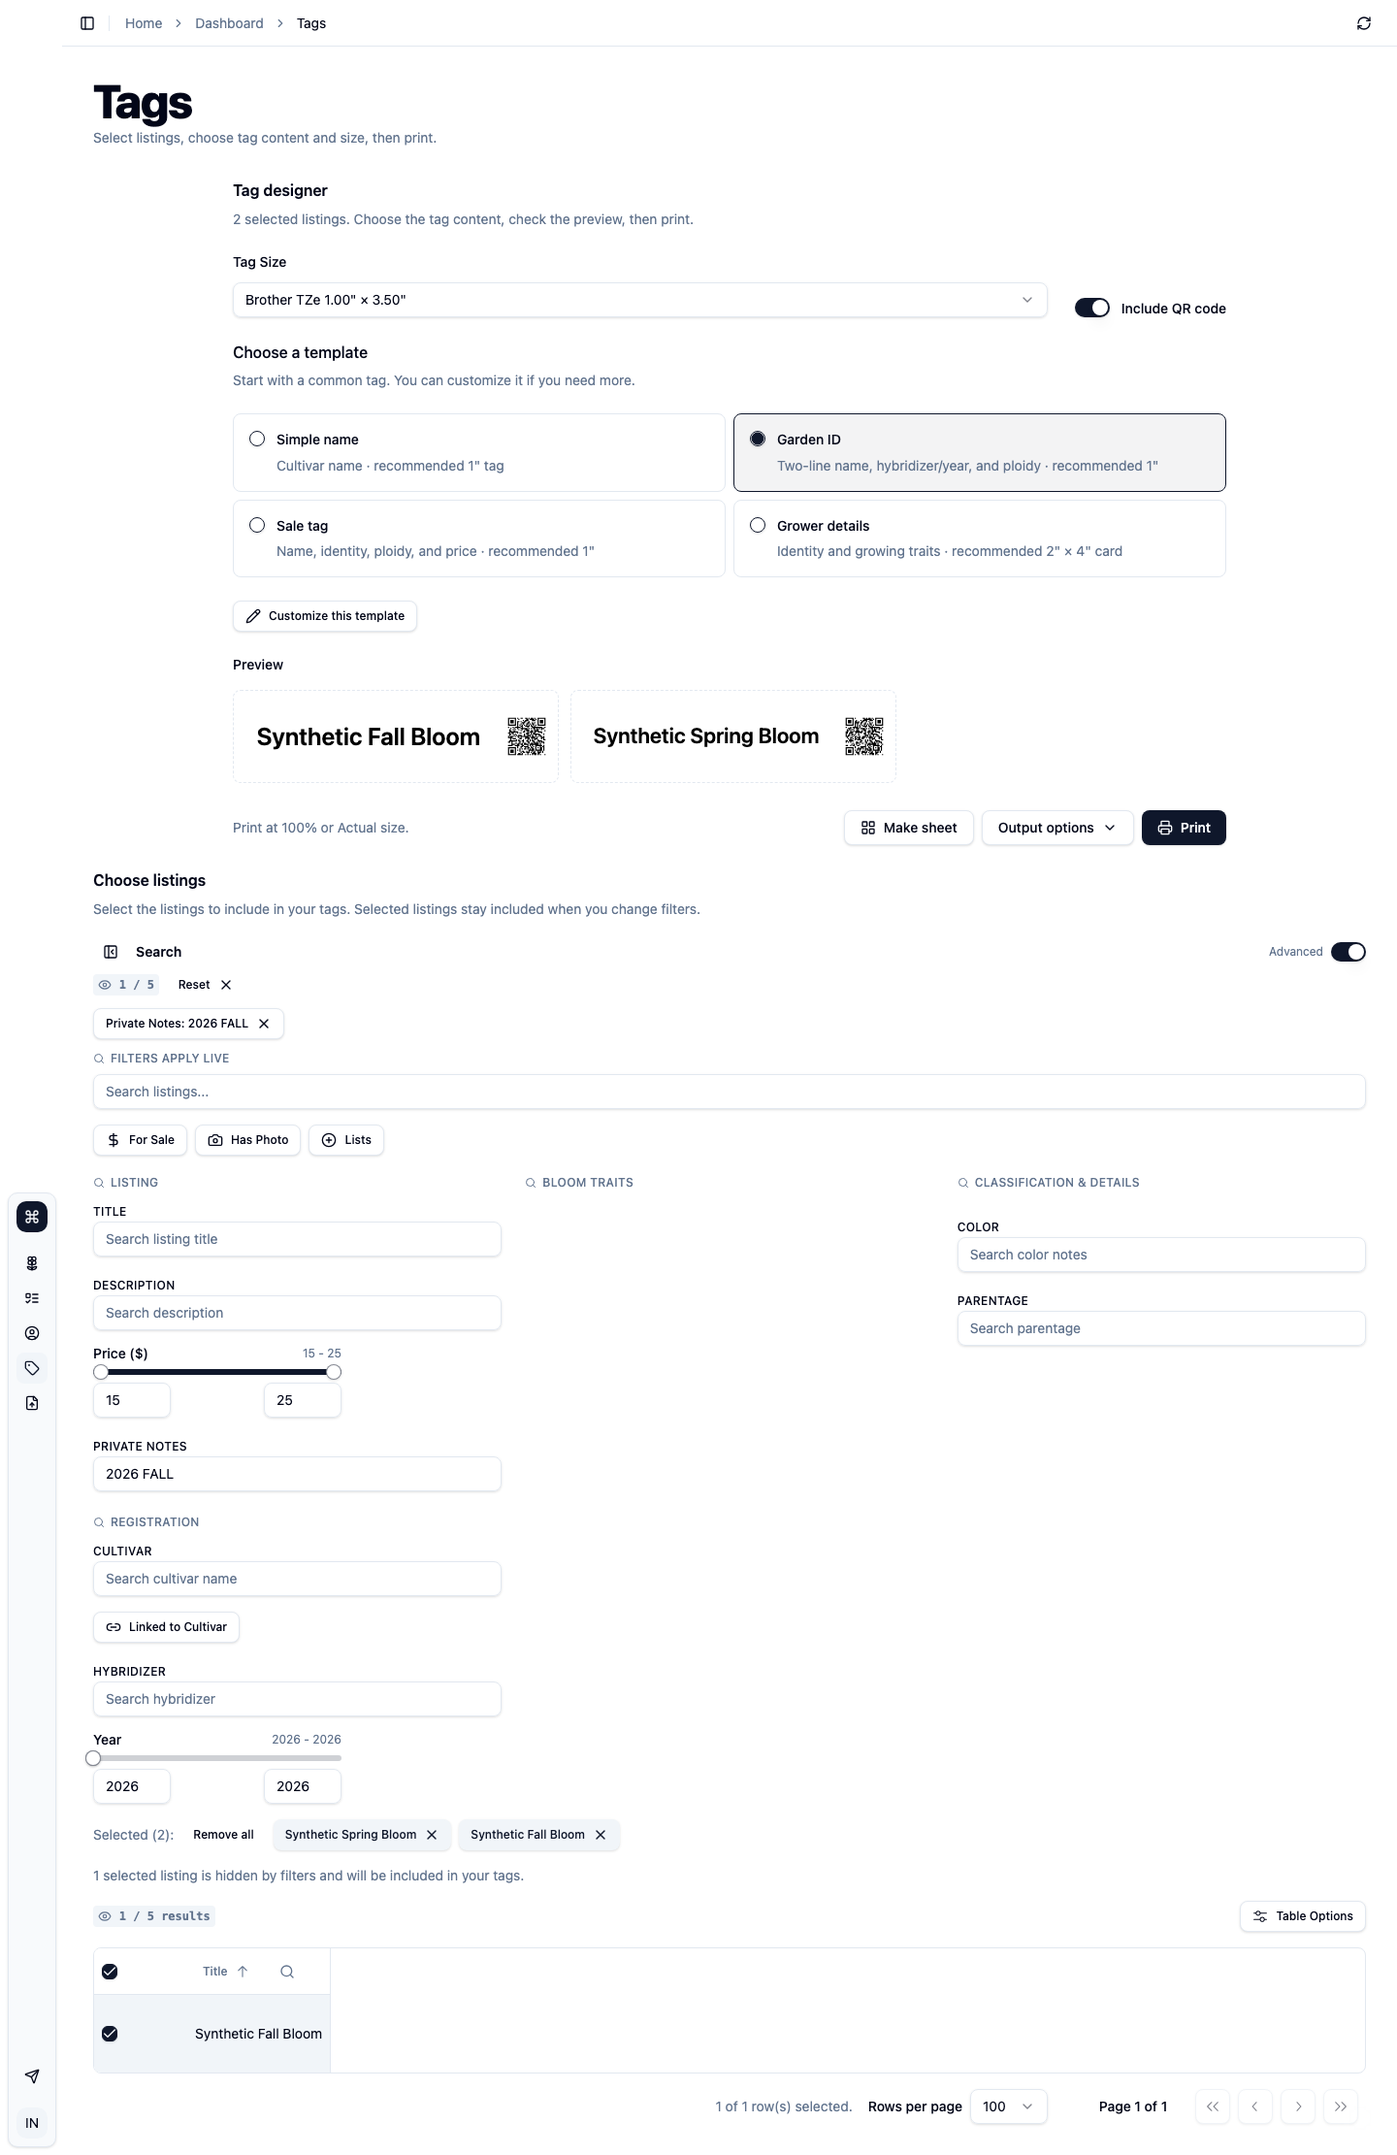
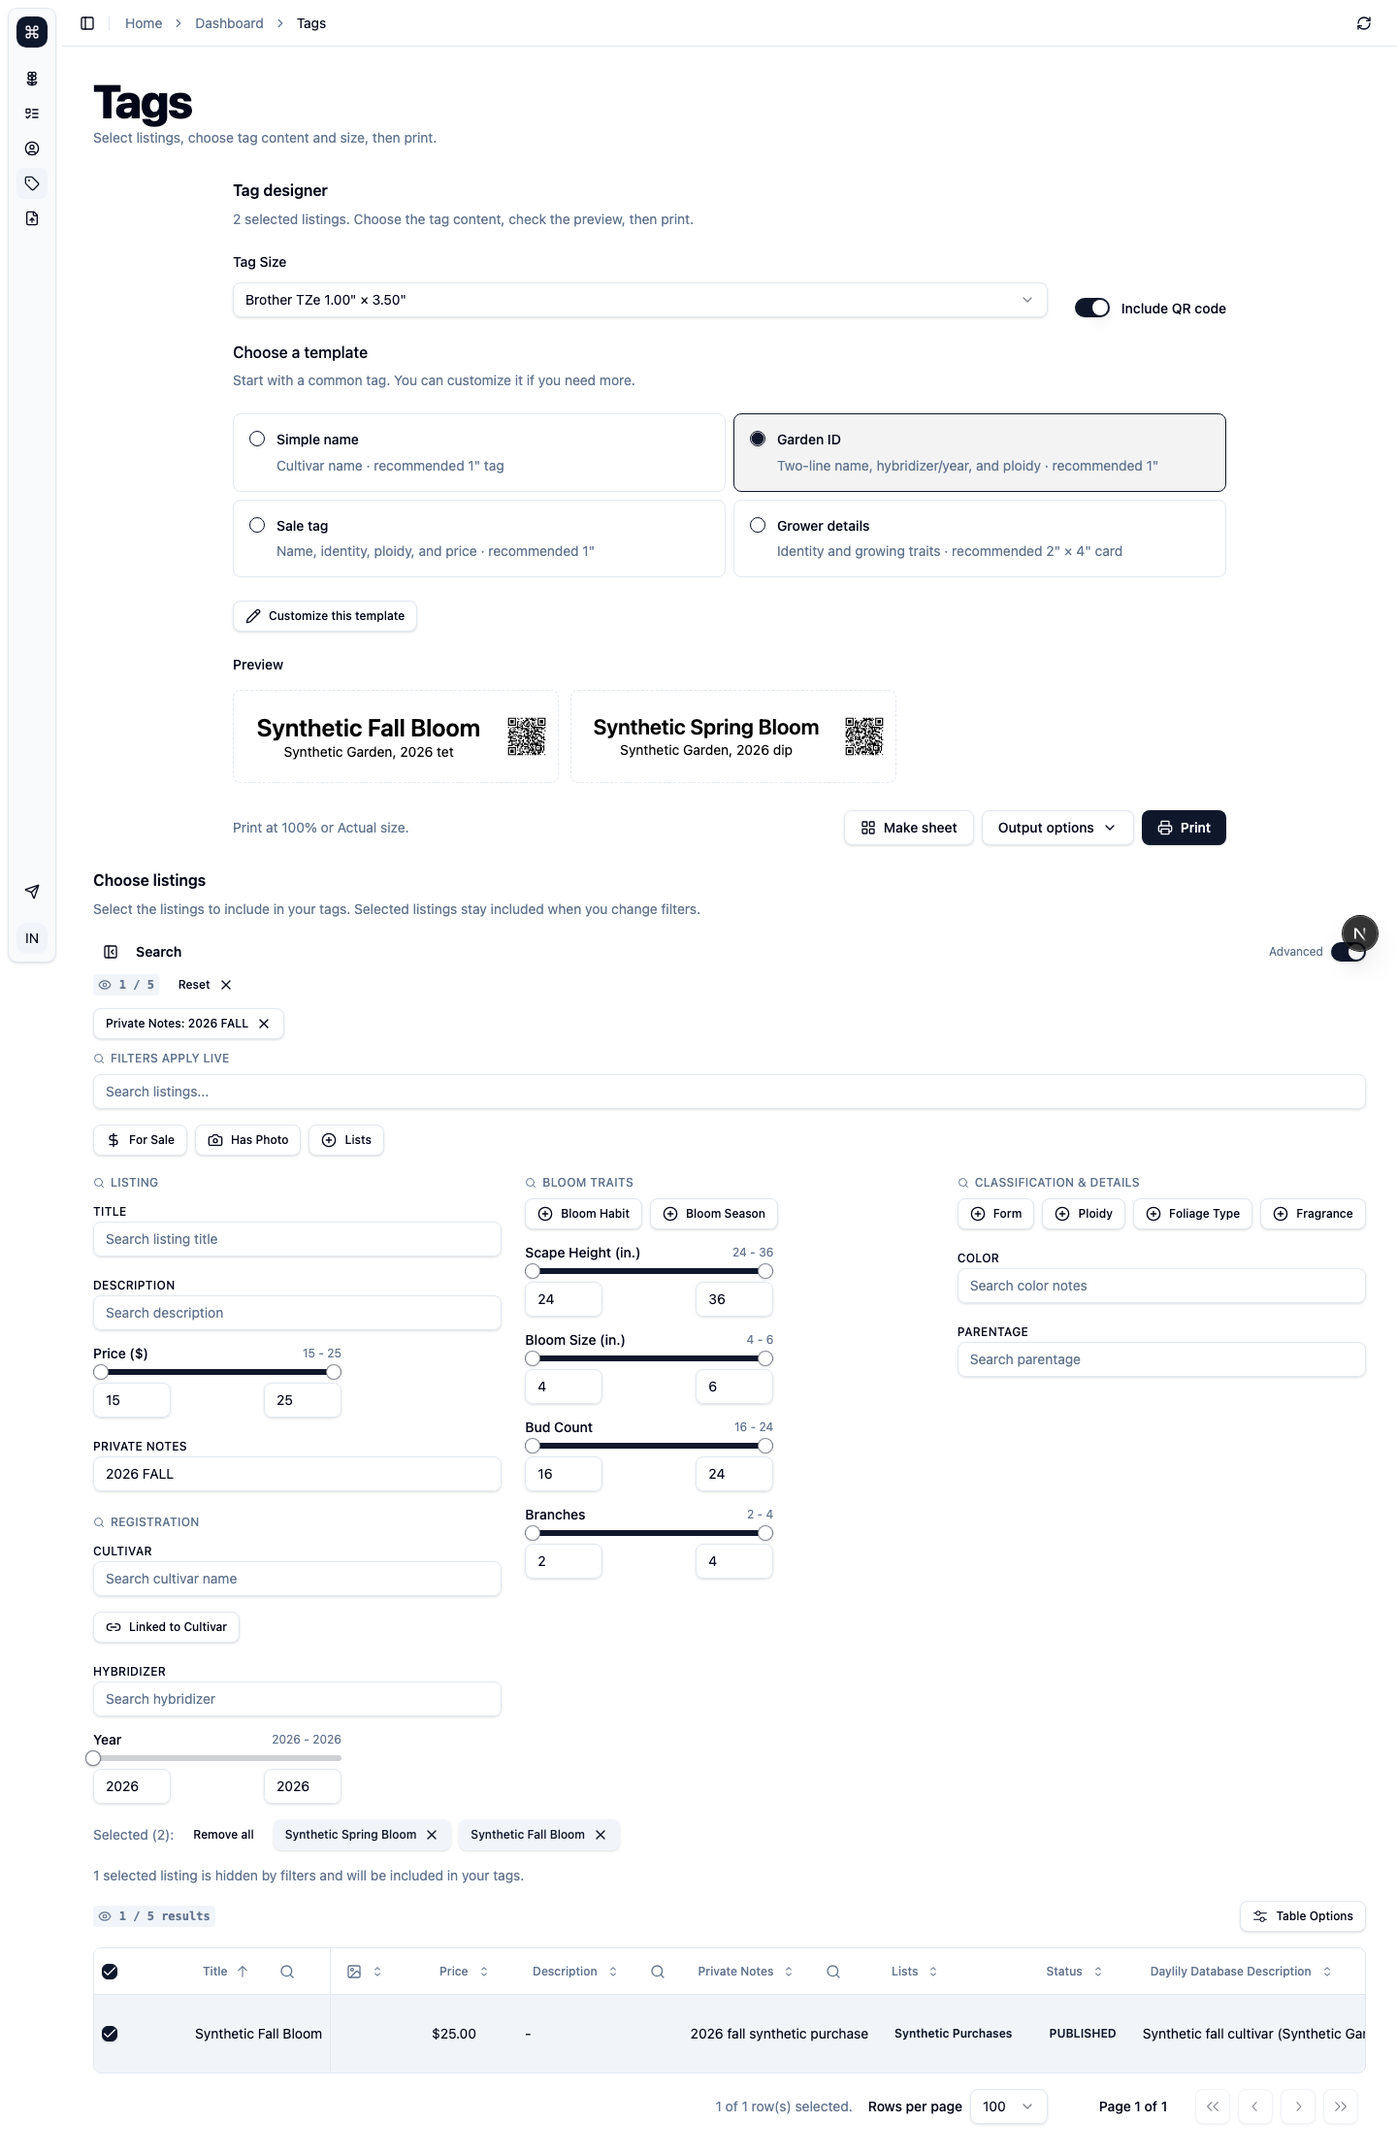
Verify populated Tags facets against reference search pages

diff --git a/apps/main/tests/integration/tags-search.integration.ts b/apps/main/tests/integration/tags-search.integration.ts
@@ -1,10 +1,16 @@
 import fs from "node:fs/promises";
+import { execFile } from "node:child_process";
+import { promisify } from "node:util";
 import path from "node:path";
 import { PrismaLibSql } from "@prisma/adapter-libsql";
 import { PrismaClient } from "@prisma/client";
 import type { Page } from "@playwright/test";
 import { expect, test } from "./fixtures";
 
+const compareCultivars = process.env.TAGS_COMPARE_CULTIVAR_SEARCH === "1";
+const candidatePath = path.resolve(
+  ".tmp/search/public-search-candidate.sqlite",
+);
 const purchaseNote = "2026 fall synthetic purchase";
 const db = new PrismaClient({
   adapter: new PrismaLibSql(
@@ -17,10 +23,64 @@ test.beforeAll(async () => {
   await db.user.create({
     data: { id: "tags-other-owner", clerkUserId: "tags-other-clerk" },
   });
+  // Exercise the actual V2 cultivar read model, not rows with empty traits.
+  for (const [season, traits] of [
+    [
+      "fall",
+      {
+        bloom_season_names: "Midseason",
+        bloom_habit_names: "Diurnal",
+        foliage_names: "Dormant",
+        ploidy_names: "Tetraploid",
+        fragrance_names: "Fragrant",
+        flower_form_names: "Single",
+        scape_height_in: 36,
+        bloom_size_in: 6,
+        bud_count: 24,
+        branches: 4,
+      },
+    ],
+    [
+      "spring",
+      {
+        bloom_season_names: "Early",
+        bloom_habit_names: "Nocturnal",
+        foliage_names: "Evergreen",
+        ploidy_names: "Diploid",
+        fragrance_names: "Very Fragrant",
+        flower_form_names: "Double",
+        scape_height_in: 24,
+        bloom_size_in: 4,
+        bud_count: 16,
+        branches: 2,
+      },
+    ],
+  ] as const) {
+    await db.v2AhsCultivar.create({
+      data: {
+        id: `tags-cultivar-${season}`,
+        post_title: `Synthetic ${season} cultivar`,
+        link_normalized_name: `synthetic ${season} cultivar`,
+        introduction_date: "2026",
+        primary_hybridizer_name: "Synthetic Garden",
+        color: "Rose and gold",
+        parentage: "Synthetic A x Synthetic B",
+        ...traits,
+      },
+    });
+    await db.cultivarReference.create({
+      data: {
+        id: `tags-reference-${season}`,
+        v2AhsCultivarId: `tags-cultivar-${season}`,
+        normalizedName: `synthetic ${season} cultivar`,
+      },
+    });
+  }
   await db.listing.createMany({
     data: [
       {
         id: "tags-fall",
+        cultivarReferenceId: "tags-reference-fall",
         userId: "integration-user",
         title: "Synthetic Fall Bloom",
         slug: "synthetic-fall-bloom",
@@ -30,6 +90,7 @@ test.beforeAll(async () => {
       },
       {
         id: "tags-spring",
+        cultivarReferenceId: "tags-reference-spring",
         userId: "integration-user",
         title: "Synthetic Spring Bloom",
         slug: "synthetic-spring-bloom",
@@ -54,6 +115,17 @@ test.beforeAll(async () => {
       },
     ],
   });
+  if (compareCultivars) {
+    // The optional four-page evidence run enables the existing runtime flag.
+    // Build only from this disposable synthetic database in our own checkout.
+    await promisify(execFile)(process.execPath, [
+      "scripts/build-public-search-index.mjs",
+      "--source",
+      process.env.DATABASE_URL!,
+      "--target",
+      candidatePath,
+    ]);
+  }
   await db.list.create({
     data: {
       id: "tags-list",
@@ -66,20 +138,72 @@ test.beforeAll(async () => {
 test.afterAll(async () => {
   await db.list.deleteMany({ where: { id: "tags-list" } });
   await db.listing.deleteMany({ where: { id: { startsWith: "tags-" } } });
+  await db.cultivarReference.deleteMany({
+    where: { id: { startsWith: "tags-reference-" } },
+  });
+  await db.v2AhsCultivar.deleteMany({
+    where: { id: { startsWith: "tags-cultivar-" } },
+  });
   await db.user.delete({ where: { id: "tags-other-owner" } });
   await db.$disconnect();
+  if (compareCultivars) {
+    for (const suffix of ["", ".next", ".previous"])
+      await fs.rm(candidatePath + suffix, { force: true });
+  }
 });
 
 async function capture(page: Page, name: string) {
   const directory = process.env.TAGS_EVIDENCE_DIR;
   if (!directory) return;
   await fs.mkdir(directory, { recursive: true });
+  await page.evaluate(() => window.scrollTo(0, 0));
   await page.mouse.move(0, 0);
   await page.screenshot({
     path: path.join(directory, `${name}.png`),
     fullPage: true,
     animations: "disabled",
   });
+  if (name.endsWith("-private-note")) {
+    await page
+      .getByRole("region", { name: "Choose listings", exact: true })
+      .screenshot({
+        path: path.join(directory, `${name}-filters.png`),
+        animations: "disabled",
+      });
+  }
+}
+
+const traitControlIds = [
+  "bloom-habit",
+  "bloom-season",
+  "scape-height",
+  "bloom-size",
+  "budcount",
+  "branches",
+  "form",
+  "ploidy",
+  "foliage-type",
+  "fragrance",
+] as const;
+
+async function expectTraitControls(page: Page, accordion: boolean) {
+  // Phone/iPad use the same responsive section accordions as Listings.
+  if (accordion) {
+    for (const name of ["Bloom Traits", "Classification & Details"]) {
+      const section = page.getByRole("button", { name, exact: true });
+      if (
+        (await section.isVisible()) &&
+        (await section.getAttribute("aria-expanded")) === "false"
+      )
+        await section.click();
+    }
+  }
+  for (const id of traitControlIds) {
+    await expect(
+      page.locator(`[data-testid="advanced-filter-${id}"]:visible`),
+      id,
+    ).toBeVisible();
+  }
 }
 
 for (const [device, viewport, touch] of [
@@ -121,6 +245,42 @@ for (const [device, viewport, touch] of [
         '[data-testid="advanced-filter-private-note"]:visible',
       );
       await expect(note).toBeVisible();
+      await expectTraitControls(page, touch);
+      // Facet availability, result counts, and selection must agree.
+      const habit = page.locator(
+        '[data-testid="advanced-filter-bloom-habit"]:visible',
+      );
+      await habit.getByRole("button").click();
+      const diurnal = page.getByRole("option", {
+        name: "Diurnal",
+        exact: true,
+      });
+      await expect(diurnal).toBeVisible();
+      await expect(page.getByRole("option")).toHaveCount(2);
+      await expect(
+        page.getByRole("option", { name: "Nocturnal", exact: true }),
+      ).toBeVisible();
+      await diurnal.click();
+      await page.keyboard.press("Escape");
+      await expect(page.getByTestId("search-results-count")).toContainText(
+        "1 /",
+      );
+      await expect(page.getByText("1 selected listing.")).toBeVisible();
+      await habit.getByRole("button").click();
+      await page.getByRole("option", { name: "Diurnal", exact: true }).click();
+      await page.keyboard.press("Escape");
+      const heightMin = page.locator(
+        '[data-testid="advanced-filter-scape-height-input-min"]:visible',
+      );
+      await heightMin.fill("30");
+      await heightMin.press("Enter");
+      await expect(page.getByTestId("search-results-count")).toContainText(
+        "1 /",
+      );
+      await expect(spring).toBeHidden();
+      await expect(page.getByText("1 selected listing.")).toBeVisible();
+      await heightMin.fill("24");
+      await heightMin.press("Enter");
       await note.fill("2026 FALL");
       await expect(page.getByTestId("search-results-count")).toContainText(
         "1 /",
@@ -138,6 +298,7 @@ for (const [device, viewport, touch] of [
         .getByRole("checkbox", { name: "Select all", exact: true })
         .click();
       await expect(page.getByText("2 selected listings.")).toBeVisible();
+      await expectTraitControls(page, touch);
       await capture(page, `${device}-private-note`);
       await expect(
         page.getByRole("main").locator('[data-slot="card"]'),
@@ -298,4 +459,65 @@ test("Tags shows dashboard loading and a recoverable load error", async ({
   await page.unroute("**/api/trpc/**");
   await page.reload();
   await expect(page.getByTestId("search-all-fields-input")).toBeVisible();
+});
+
+test("Tags renders the same populated cultivar controls as reference search pages", async ({
+  page,
+}) => {
+  test.setTimeout(120_000);
+  await page.setViewportSize({ width: 1440, height: 1000 });
+  for (const [name, route] of [
+    ["tags", "/dashboard/tags"],
+    ["listings", "/dashboard/listings"],
+    ["member", "/integration-seller/search?mode=advanced"],
+    ...(compareCultivars
+      ? [["cultivars", "/cultivars?advanced=true"] as const]
+      : []),
+  ] as const) {
+    await page.goto(route);
+    if (name === "tags" || name === "listings") {
+      const mode = page.getByTestId("search-mode-switch");
+      await expect(mode).toBeVisible();
+      if ((await mode.getAttribute("data-state")) !== "checked")
+        await mode.click();
+    }
+    if (name === "member") {
+      for (const label of ["Bloom Traits", "Classification & Details"])
+        await page.getByRole("button", { name: label, exact: true }).click();
+    }
+    await expectTraitControls(page, false);
+    // Each reference uses the same range/facet primitives. Tags adds only the
+    // owner's Private Notes text field to the Listings filter definitions.
+    await expect(
+      page.locator(
+        '[data-testid="advanced-filter-scape-height-input-min"]:visible',
+      ),
+    ).toBeVisible();
+    await expect(
+      page
+        .locator('[data-testid="advanced-filter-ploidy"]:visible')
+        .getByRole("button"),
+    ).toBeVisible();
+    if (name === "tags" || name === "listings") {
+      await expect(
+        page.locator(
+          '[data-testid="advanced-filter-scape-height-input-min"]:visible',
+        ),
+      ).toHaveValue("24");
+      await expect(
+        page.locator(
+          '[data-testid="advanced-filter-scape-height-input-max"]:visible',
+        ),
+      ).toHaveValue("36");
+    }
+    if (name === "member" || name === "cultivars") {
+      await expect(
+        page.getByTestId("advanced-filter-private-note"),
+      ).toHaveCount(0);
+      await expect(page.getByText(purchaseNote, { exact: true })).toHaveCount(
+        0,
+      );
+    }
+    await capture(page, `reference-${name}-desktop`);
+  }
 });

diff --git a/apps/main/docs/tags-search-verification.md b/apps/main/docs/tags-search-verification.md
@@ -28,7 +28,8 @@ No member database, printer, or outbound email service was used.
 | Desktop | [Before](evidence/tags-search/desktop-before.png) | [After](evidence/tags-search/desktop-after.png) |
 | Phone   | [Before](evidence/tags-search/mobile-before.png)  | [After](evidence/tags-search/mobile-after.png)  |
 
-The after captures show two selected listings. The `2026 FALL` filter displays
+The before captures restore the Tags component from base `e31a2cc3` and use
+these same populated synthetic cultivar fixtures. The after captures show two selected listings. The `2026 FALL` filter displays
 one matching listing. Both selected listings remain in preview and exports.
 
 Run the focused browser flow from the repository root:
@@ -46,14 +47,54 @@ private text remaining local, and CSV/HTML/PDF/ZIP downloads. Another flow check
 loading, load failure, and recovery after refresh. Unit coverage checks loading
 versus an empty account and URL synchronization opt-out.
 
+## Screenshot review correction
+
+The first desktop evidence had an empty **Bloom Traits** column and no
+classification facets. Its fixtures had no bloom habit, season, size, height,
+bud count, branches, form, ploidy, foliage, or fragrance. Shared Listings/member
+controls omit options and ranges when the user's data has no values. That
+capture did not demonstrate the requested controls, and the initial tests did
+not catch the omission.
+
+The replacement fixtures link two listings to synthetic V2 cultivar records
+with all ten fields. They exercise the actual owner-scoped read model. The
+browser tests now require each rendered control on desktop, phone, and iPad,
+check both bloom-habit options, then select a facet and change a numeric range.
+They assert result counts and retained hidden selections. A private-note
+filter must leave all trait controls available. No further product source
+change was needed after the populated-data comparison.
+
+[Desktop filters](evidence/tags-search/desktop-filters.png) ·
+[Phone filters](evidence/tags-search/mobile-filters.png) ·
+[iPad filters](evidence/tags-search/ipad-filters.png) ·
+[iPad full page](evidence/tags-search/ipad-after.png)
+
+![Corrected desktop Tags filters](evidence/tags-search/desktop-filters.png)
+
+The browser comparison checks the same ten shared controls on
+[Tags](evidence/tags-search/reference-tags-desktop.png),
+[Listings](evidence/tags-search/reference-listings-desktop.png), and
+[member search](evidence/tags-search/reference-member-desktop.png).
+[Global Cultivar search](evidence/tags-search/reference-cultivars-desktop.png)
+uses the same facet/range primitives with registration-wide ranges and extra
+award, rebloom, flower-show, and sculpted-type filters. Tags follows the existing
+Listings definitions, with Private Notes added, and retains the flat layout.
+
+Cultivar search is disabled in the default integration runtime. For the
+four-page comparison, set `TAGS_COMPARE_CULTIVAR_SEARCH=1` and point
+`RUNTIME_FEATURE_FLAGS_PATH` to a temporary JSON file containing
+`{"publicCultivarSearch":true}`. The fixture builds and removes its own search
+candidate from the disposable database in this checkout. The normal CI run
+compares Tags, Listings, and member search without changing runtime flags.
+
 ## Validation
 
 - Typecheck passed.
 - Full lint passed with repository design warnings. Changed source files passed without warnings.
 - Full Vitest run: 203 files, 799 tests passed with four workers. An initial default-worker run timed out in the existing shadcn lint test. Its focused retry and the full repeat passed.
-- Focused Chromium browser flows passed on desktop, phone, and iPad-sized touch screens.
-- Full Chromium integration suite: 26 tests passed.
-- Focused WebKit flows: four tests passed, including loading/error recovery. The first WebKit run detected a test navigation race. Back now waits for the Dashboard to load before leaving. No errors are excluded from the assertion.
+- Updated Chromium browser flows: five tests passed, including all four reference pages and desktop, phone, and iPad-sized touch screens.
+- Previous implementation head: full Chromium integration suite passed. The updated fixture/regression head is checked separately in the PR checks.
+- Updated WebKit browser flows: five tests passed, including populated facets, ranges, retained exports, and loading/error recovery. The comparison checks Tags, Listings, and member search. Back waits for the Dashboard to load before leaving. No errors are excluded from the assertion.
 
 These checks verify simulated viewports and local provider boundaries. They do
 not verify a physical iPad, Brother hardware, or production provider services.

diff --git a/logs.md b/logs.md
@@ -62,3 +62,5 @@ check current code before applying them.
 - [2026-10-03] Flat dashboard composition: The user prefers page content without decorative cards or nested card chrome. Lists and Tags restore plain forms and sections while retaining the newer controls and behavior. Keep outlines that identify editable inputs, template selection, tables, or physical tag dimensions. Do not wrap those controls in another decorative card.
 
 - [2026-10-03] Tags search privacy and selection: Tags uses the shared Basic/Advanced filters with an owner-only Private Notes filter. Keep all Tags search and filter state out of URLs because global search can also contain notes. Build tag exports from the full selected dataset, and report selections hidden by filters. Reload and route exit clear transient filters and selection.
+
+- [2026-10-03] Search screenshot fixtures: Shared Listings/member advanced controls omit facets and ranges with no data. Seed linked V2 cultivars with every trait before using screenshots as evidence. Assert rendered controls, options, result counts, and selection; a private-note-only flow can pass with an empty Bloom Traits column.
